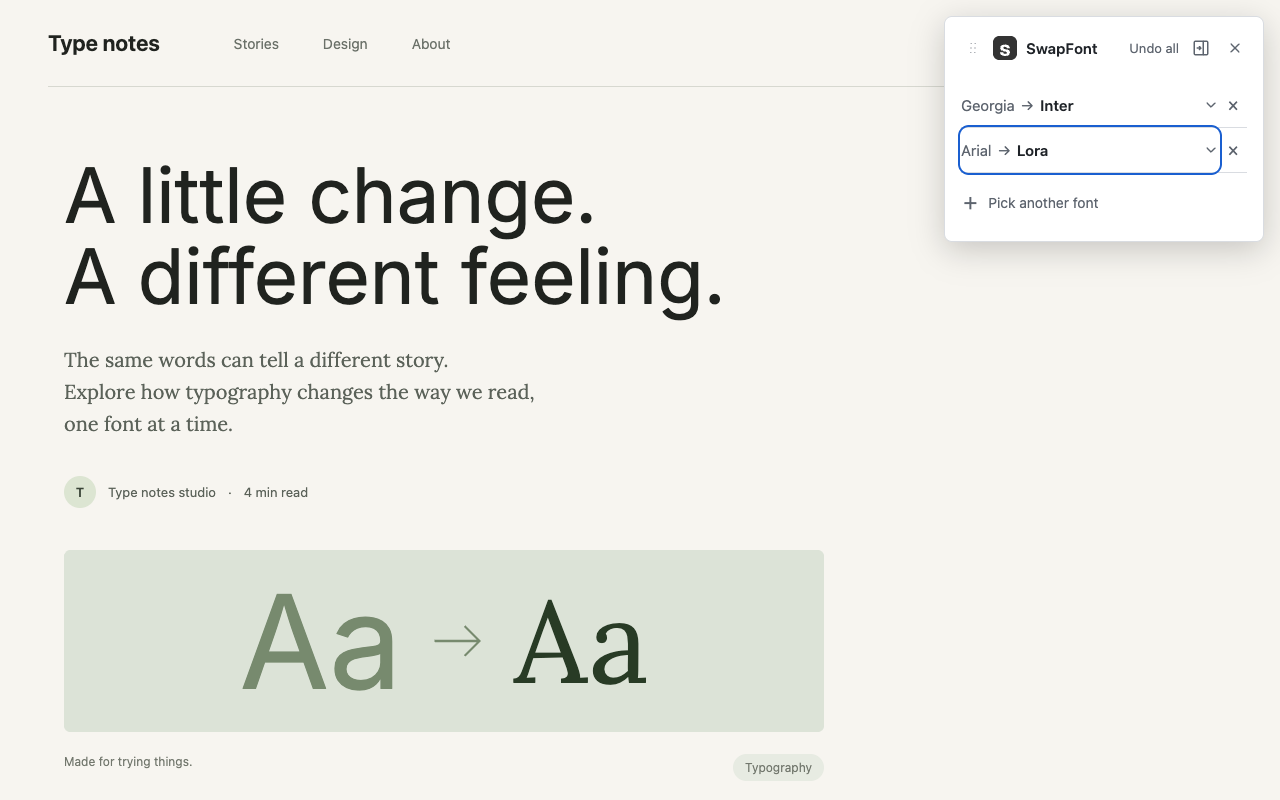
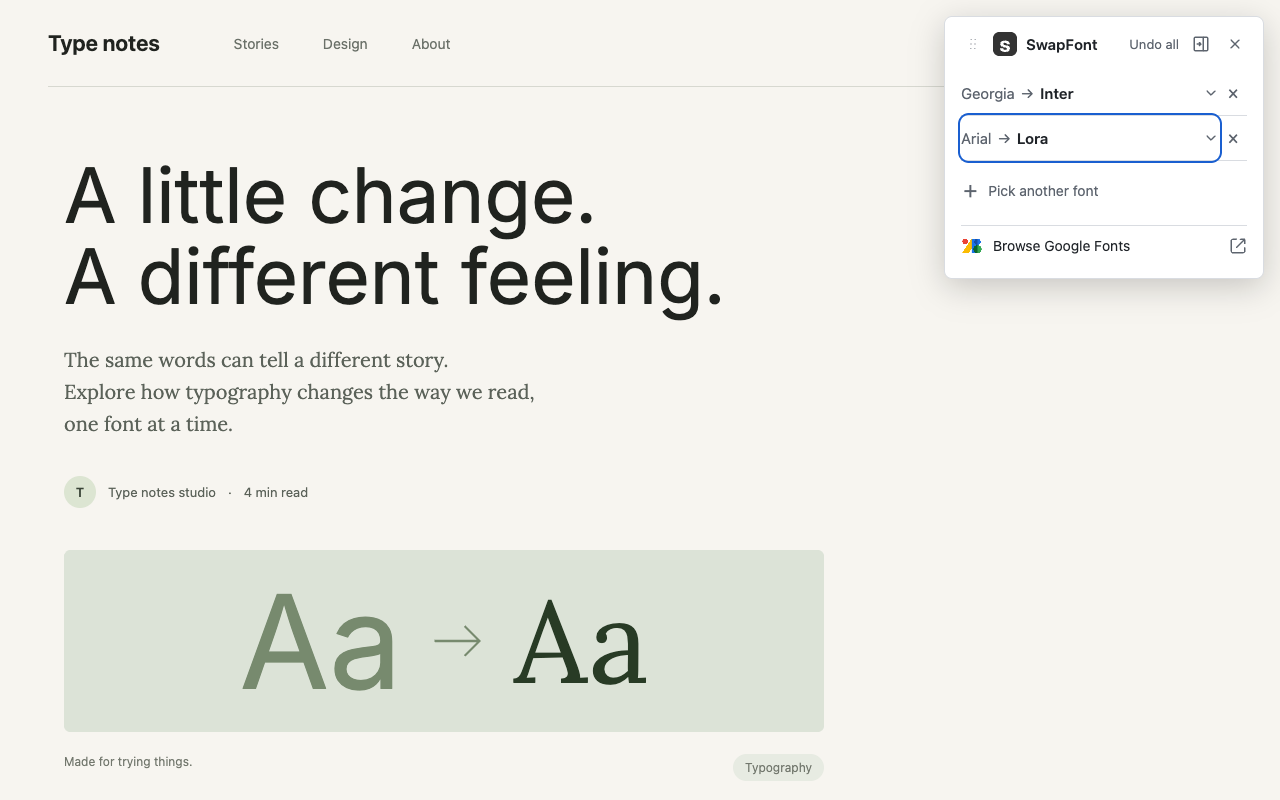
feat: add Google Fonts footer to both panel layouts

Changed region(s): [[0.7188, 0.0312, 1.0, 0.375], [0.875, 0.0312, 0.9688, 0.0625]]

diff --git a/extension/floating.js b/extension/floating.js
@@ -17,6 +17,8 @@
   const root=host.attachShadow({mode:'closed'});
   const sheet=new CSSStyleSheet();
   sheet.replaceSync(ui.css.replaceAll(':root',':host').replace(/html,\s*body/g,':host').replace(/\bbody\s*\{/g,':host {')+`
+    .panel { height: auto; }
+    .panel-content { flex: none; overflow: visible; }
     .panel-header { cursor: grab; touch-action: none; }
     .panel-header h1 { margin-right: auto; }
     .floating-control { display: grid; place-items: center; flex: none; width: 24px; height: 28px; padding: 0; border: 0; border-radius: 4px; background: none; color: var(--muted); cursor: pointer; }
@@ -31,6 +33,12 @@
   const icon=document.importNode(parser.parseFromString(ui.icon,'image/svg+xml').documentElement,true);
   icon.setAttribute('class','brand-icon'); icon.setAttribute('aria-hidden','true');
   root.querySelector('h1 img').replaceWith(icon);
+  // Decode the bundled logo without a page image request, including on strict-CSP sites.
+  const bitmap=await createImageBitmap(new Blob([new Uint8Array(ui.logo)],{type:'image/png'}));
+  const logo=document.createElement('canvas'); logo.className='google-fonts-logo'; logo.setAttribute('aria-hidden','true');
+  logo.width=bitmap.width; logo.height=bitmap.height;
+  logo.getContext('2d').drawImage(bitmap,0,0); bitmap.close();
+  root.querySelector('.google-fonts-logo').replaceWith(logo);
   const header=root.querySelector('.panel-header');
   function control(id,label,paths) {
     const button=document.createElement('button');

diff --git a/extension/sidepanel.html b/extension/sidepanel.html
@@ -17,6 +17,7 @@
       </button>
     </header>
 
+    <div class="panel-content">
     <section id="view-loading" class="state-view">
       <span class="spinner" aria-hidden="true"></span>
       <p>Connecting</p>
@@ -54,6 +55,14 @@
         <p id="error" class="error" role="alert" hidden></p>
       </div>
     </div>
+    </div>
+    <footer class="panel-footer">
+      <a class="browse-fonts" href="https://fonts.google.com/" target="_blank" rel="noopener noreferrer" aria-label="Browse Google Fonts, opens in a new tab">
+        <img class="google-fonts-logo" src="icons/google-fonts.png" width="22" height="22" alt="">
+        <span>Browse Google Fonts</span>
+        <svg class="external-link" width="18" height="18" viewBox="0 0 24 24" fill="none" stroke="currentColor" stroke-width="1.75" stroke-linecap="round" stroke-linejoin="round" aria-hidden="true"><path d="M15 3h6v6m0-6L10 14"/><path d="M10 3H5a2 2 0 0 0-2 2v14a2 2 0 0 0 2 2h14a2 2 0 0 0 2-2v-5"/></svg>
+      </a>
+    </footer>
   </main>
   <script src="sidepanel.js" type="module"></script>
 </body>

diff --git a/extension/sidepanel.css b/extension/sidepanel.css
@@ -88,8 +88,50 @@ input {
 }
 
 .panel {
-  gap: 20px;
-  padding: 16px;
+  gap: 12px;
+  padding: 12px 16px;
+  height: 100dvh;
+}
+
+.panel-content {
+  flex: 1 1 auto;
+  min-height: 0;
+  min-width: 0;
+  overflow-y: auto;
+}
+
+.panel-header,
+.panel-footer {
+  flex: none;
+}
+
+.panel-footer {
+  border-top: 1px solid var(--border);
+}
+
+.browse-fonts {
+  display: flex;
+  align-items: center;
+  gap: 10px;
+  min-height: 40px;
+  padding: 8px 0;
+  color: var(--text);
+  text-decoration: none;
+}
+
+.google-fonts-logo,
+.external-link {
+  flex: none;
+}
+
+.google-fonts-logo { width: 22px; height: 22px; }
+.external-link { margin-left: auto; color: var(--muted); }
+.browse-fonts:hover span { text-decoration: underline; text-underline-offset: 3px; }
+.browse-fonts:hover .external-link { color: var(--accent); }
+.browse-fonts:focus-visible { outline-offset: -2px; }
+
+@media (max-width: 280px) {
+  .browse-fonts { gap: 8px; }
 }
 
 .main {

diff --git a/extension/worker.js b/extension/worker.js
@@ -97,7 +97,8 @@ async function panel(message) {
   if (action === 'mode') return switchMode(tabId,message.mode);
   if (action === 'ui') {
     const [html,css,icon] = await Promise.all(['sidepanel.html','sidepanel.css','icons/icon.svg'].map(file=>fetch(chrome.runtime.getURL(file)).then(r=>r.text())));
-    return {html,css,icon,tabId};
+    const logo = Array.from(new Uint8Array(await fetch(chrome.runtime.getURL('icons/google-fonts.png')).then(r=>r.arrayBuffer())));
+    return {html,css,icon,logo,tabId};
   }
   if (action === 'catalog') return {catalog:await getCatalog()};
   if (action === 'sample') {

diff --git a/store/README.md b/store/README.md
@@ -1,6 +1,6 @@
 # Chrome Web Store draft
 
-SwapFont v0.4.1. Category Art & Design. Language English.
+SwapFont v0.4.2. Category Art & Design. Language English.
 
 - Homepage: https://omshejul.com/app/swapfont
 - Privacy: https://omshejul.com/app/swapfont/privacy
